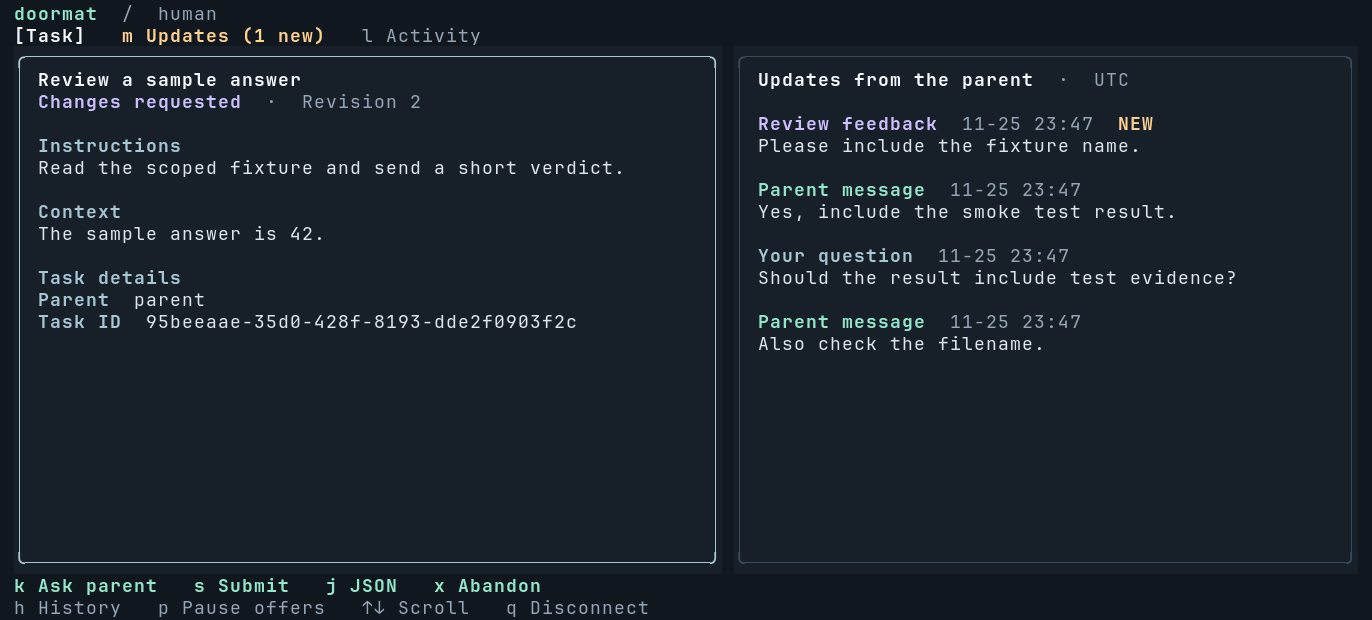
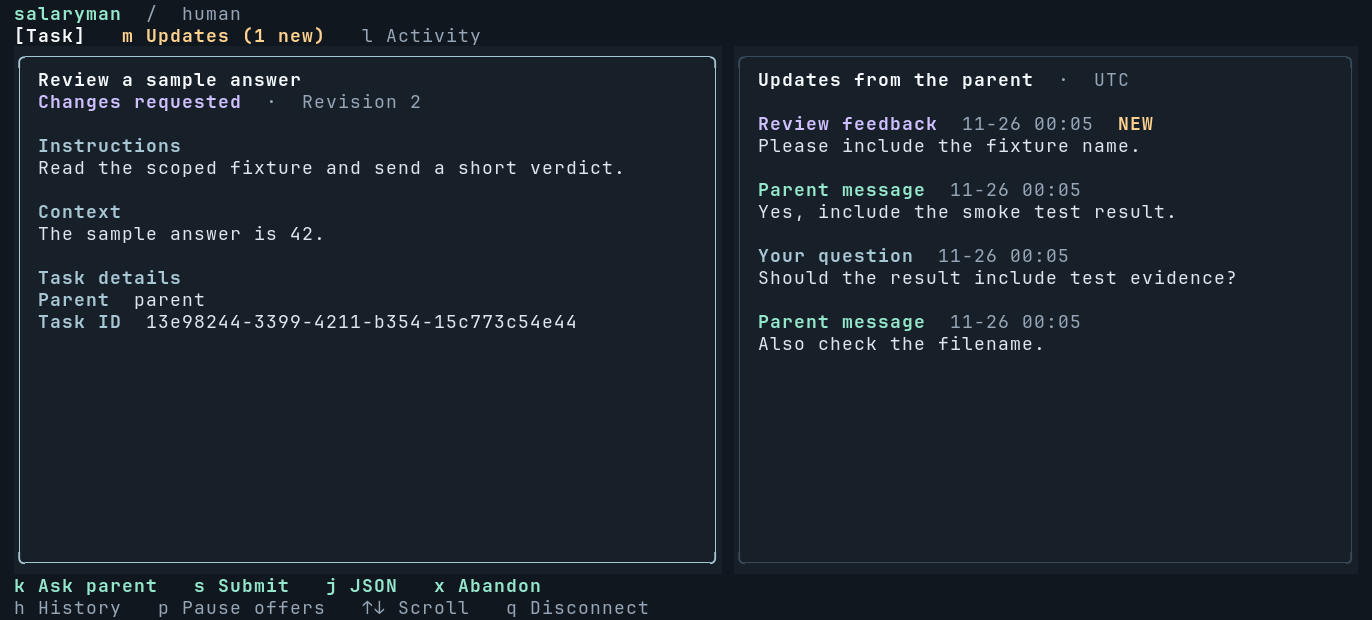
Rename doormat to salaryman

diff --git a/src/cli.ts b/src/cli.ts
@@ -6,23 +6,23 @@ import { paths, parentToken, workerIdentity } from "./local";
 import { DomainError, id, taskId } from "./model";
 import { parentRoutes, type ParentMethod, type Params } from "./rpc";
 
-const help = `doormat — local human delegation runtime
+const help = `salaryman — local human delegation runtime
 
 Usage
-  doormat daemon
-  doormat mcp                          MCP stdio bridge
-  doormat attach [--worker ID] [--available]
-  doormat connect [--worker ID]        Connect without opting into offers
-  doormat online [--worker ID]         Opt in for one headless lease
-  doormat status | heartbeat | pause | resume | disconnect
-  doormat accept [TASK] | reject REASON [TASK]
-  doormat ask TEXT [TASK] | abandon REASON [TASK]
-  doormat workspace [TASK] [--tmux]     Print path or retry setup
-  doormat submit FILE|- [TASK]         Submit JSON with revision and submissionId
-  doormat events [TASK] [--after CURSOR]
-  doormat history
-  doormat parent TOOL [FILE|-]         Call a parent tool with JSON
-  doormat route FILE|-                  Evaluate opt-in routing policy
+  salaryman daemon
+  salaryman mcp                          MCP stdio bridge
+  salaryman attach [--worker ID] [--available]
+  salaryman connect [--worker ID]        Connect without opting into offers
+  salaryman online [--worker ID]         Opt in for one headless lease
+  salaryman status | heartbeat | pause | resume | disconnect
+  salaryman accept [TASK] | reject REASON [TASK]
+  salaryman ask TEXT [TASK] | abandon REASON [TASK]
+  salaryman workspace [TASK] [--tmux]     Print path or retry setup
+  salaryman submit FILE|- [TASK]         Submit JSON with revision and submissionId
+  salaryman events [TASK] [--after CURSOR]
+  salaryman history
+  salaryman parent TOOL [FILE|-]         Call a parent tool with JSON
+  salaryman route FILE|-                  Evaluate opt-in routing policy
 
 Worker operations accept --worker ID (default: human).
 Headless sessions must heartbeat at least once per minute.
@@ -63,9 +63,9 @@ async function main() {
     status: [0, 0], heartbeat: [0, 0], pause: [0, 0], resume: [0, 0], disconnect: [0, 0],
     accept: [0, 1], reject: [1, 2], ask: [1, 2], abandon: [1, 2], workspace: [0, 1], submit: [1, 2],
     events: [0, 1], history: [0, 0], parent: [1, 2], route: [1, 1] };
-  if (!Object.hasOwn(count, command)) throw new Error("Unknown command. Run doormat --help");
+  if (!Object.hasOwn(count, command)) throw new Error("Unknown command. Run salaryman --help");
   const [min, max] = count[command]!;
-  if (cli.positionals.length < min || cli.positionals.length > max) throw new Error("Unexpected or missing arguments. Run doormat --help");
+  if (cli.positionals.length < min || cli.positionals.length > max) throw new Error("Unexpected or missing arguments. Run salaryman --help");
   const flags: Record<string, string[]> = { daemon: [], mcp: [], parent: [], route: [], attach: ["worker", "available"],
     workspace: ["worker", "tmux"], events: ["worker", "after"] };
   if (Object.keys(cli.values).some((value) => !(flags[command] ?? ["worker"]).includes(value))) throw new Error("Flag is unsupported for this command");

diff --git a/test/integration.test.ts b/test/integration.test.ts
@@ -32,8 +32,8 @@ beforeEach(() => {
   root = mkdtempSync(join(tmpdir(), "ha-ipc-"));
   repo = join(root, "git repo");
   env = { PATH: process.env.PATH!, HOME: root, GIT_CONFIG_NOSYSTEM: "1", GIT_CONFIG_GLOBAL: "/dev/null",
-    XDG_STATE_HOME: join(root, "state"), XDG_RUNTIME_DIR: join(root, "run"), DOORMAT_PARENT_TOKEN: owner,
-    DOORMAT_REPOSITORIES: JSON.stringify({ demo: repo }) };
+    XDG_STATE_HOME: join(root, "state"), XDG_RUNTIME_DIR: join(root, "run"), SALARYMAN_PARENT_TOKEN: owner,
+    SALARYMAN_REPOSITORIES: JSON.stringify({ demo: repo }) };
   mkdirSync(repo);
   git("init", "-q");
   writeFileSync(join(repo, "example"), "base\n");
@@ -128,10 +128,10 @@ test("MCP SDK stdio lists tools, delegates, exchanges messages and reviews a sub
   await start();
   const tokenFile = join(root, "parent.token");
   writeFileSync(tokenFile, owner + "\n", { mode: 0o600 });
-  const { DOORMAT_PARENT_TOKEN: _token, ...stdioEnv } = env;
+  const { SALARYMAN_PARENT_TOKEN: _token, ...stdioEnv } = env;
   const transport = new StdioClientTransport({ command: process.execPath, args: ["--no-env-file", entry, "mcp"],
-    env: { ...stdioEnv, DOORMAT_PARENT_TOKEN_FILE: tokenFile }, stderr: "pipe" });
-  const client = new Client({ name: "doormat-test", version: "0.1.0" });
+    env: { ...stdioEnv, SALARYMAN_PARENT_TOKEN_FILE: tokenFile }, stderr: "pipe" });
+  const client = new Client({ name: "salaryman-test", version: "0.1.0" });
   try {
     await client.connect(transport);
     expect((await client.listTools()).tools.map((tool) => tool.name)).toContain("complete_human_task");
@@ -250,11 +250,11 @@ test("workspace setup rejects repository-defined external filters", async () => 
   expect((await ipc.parent(owner, "get_human_status", { taskId })).state).toBe("ACCEPTED");
 });
 
-test("legacy environment variables still connect to the existing runtime", async () => {
-  env.HUMAN_AGENT_PARENT_TOKEN = owner;
-  env.HUMAN_AGENT_REPOSITORIES = env.DOORMAT_REPOSITORIES!;
-  delete env.DOORMAT_PARENT_TOKEN;
-  delete env.DOORMAT_REPOSITORIES;
+test.each(["DOORMAT", "HUMAN_AGENT"])("%s environment variables still connect to the existing runtime", async (prefix) => {
+  env[prefix + "_PARENT_TOKEN"] = owner;
+  env[prefix + "_REPOSITORIES"] = env.SALARYMAN_REPOSITORIES!;
+  delete env.SALARYMAN_PARENT_TOKEN;
+  delete env.SALARYMAN_REPOSITORIES;
   await start();
   const payload = JSON.stringify({ ...taskSpec, workspace: { repository: "demo", ref: base } });
   const child = Bun.spawn([process.execPath, entry, "parent", "delegate_to_human", "-"], {

diff --git a/src/local.ts b/src/local.ts
@@ -34,9 +34,11 @@ export function ownSocket(path: string, checkMode = true) {
 }
 
 export function parentToken() {
-  const renamedConfig = process.env.DOORMAT_PARENT_TOKEN || process.env.DOORMAT_PARENT_TOKEN_FILE;
-  const file = renamedConfig ? process.env.DOORMAT_PARENT_TOKEN_FILE : process.env.HUMAN_AGENT_PARENT_TOKEN_FILE;
-  let value = renamedConfig ? process.env.DOORMAT_PARENT_TOKEN : process.env.HUMAN_AGENT_PARENT_TOKEN;
+  const prefix = ["SALARYMAN", "DOORMAT", "HUMAN_AGENT"].find(
+    (name) => process.env[name + "_PARENT_TOKEN"] || process.env[name + "_PARENT_TOKEN_FILE"],
+  ) ?? "SALARYMAN";
+  const file = process.env[prefix + "_PARENT_TOKEN_FILE"];
+  let value = process.env[prefix + "_PARENT_TOKEN"];
   if (!value && file) {
     if (!isAbsolute(file)) throw new DomainError("CONFIG", "Parent token file path must be absolute");
     const info = lstatSync(file);
@@ -46,7 +48,7 @@ export function parentToken() {
     value = readFileSync(file, "utf8").trim();
   }
   const parsed = token.safeParse(value);
-  if (!parsed.success) throw new DomainError("CONFIG", "Configure a stable random DOORMAT_PARENT_TOKEN or DOORMAT_PARENT_TOKEN_FILE");
+  if (!parsed.success) throw new DomainError("CONFIG", "Configure a stable random SALARYMAN_PARENT_TOKEN or SALARYMAN_PARENT_TOKEN_FILE");
   return parsed.data;
 }
 

diff --git a/src/git.ts b/src/git.ts
@@ -8,7 +8,8 @@ const repositoryMap = z.record(id, z.string().refine(isAbsolute));
 const hash = /^[0-9a-f]{40}$|^[0-9a-f]{64}$/;
 
 export function configuredRepositories() {
-  return repositoryMap.parse(JSON.parse(process.env.DOORMAT_REPOSITORIES ?? process.env.HUMAN_AGENT_REPOSITORIES ?? "{}"));
+  const value = process.env.SALARYMAN_REPOSITORIES ?? process.env.DOORMAT_REPOSITORIES ?? process.env.HUMAN_AGENT_REPOSITORIES;
+  return repositoryMap.parse(JSON.parse(value ?? "{}"));
 }
 
 function gitEnvironment() {
@@ -102,7 +103,7 @@ export class GitWorkspaces implements WorkspacePort {
 }
 
 export async function tmuxWorkspace(path: string, id: string) {
-  const name = "doormat-" + taskId.parse(id);
+  const name = "salaryman-" + taskId.parse(id);
   if (!isAbsolute(path) || await realpath(path) !== path) throw new Error("The workspace path has moved");
   const session = Bun.spawn(["tmux", "has-session", "-t", "=" + name], { stdout: "ignore", stderr: "ignore" });
   if (await session.exited !== 0) {

diff --git a/src/daemon.ts b/src/daemon.ts
@@ -11,7 +11,7 @@ function lock(path: string) {
   try { db.exec("PRAGMA busy_timeout=0; BEGIN EXCLUSIVE;"); }
   catch {
     db.close();
-    throw new Error("The doormat runtime or state directory is already in use");
+    throw new Error("The salaryman runtime or state directory is already in use");
   }
   return db;
 }
@@ -32,7 +32,7 @@ export async function daemon() {
         const service = new AgentService(repo, workspaces);
         service.start();
         const listener = await listen(config.socket, service);
-        console.error(`doormat listening at ${config.socket}`);
+        console.error(`salaryman listening at ${config.socket}`);
         const timer = setInterval(() => {
           try { service.tick(); }
           catch (error) { console.error("Queue tick failed:", error); }

diff --git a/src/tui.ts b/src/tui.ts
@@ -131,7 +131,7 @@ export async function attach(client: LocalClient, human: Human, available: boole
       const presence = networkError ? "OFFLINE" : snapshot?.availability ?? "CONNECTING";
       showEventsFor(view !== "history" ? task?.id ?? "" : "");
       markUpdatesOpened();
-      set(header, [["doormat", "accent"], ["  /  ", "muted"],
+      set(header, [["salaryman", "accent"], ["  /  ", "muted"],
         ...(!snapshot?.task || networkError ? [[presence + "   ", networkError ? "error" : "label"]] satisfies Segment[] : []),
         [human.worker, "muted"]]);
       const tab = (name: string, active: boolean, tone: Tone = "muted"): Segment =>

diff --git a/src/mcp.ts b/src/mcp.ts
@@ -26,7 +26,7 @@ const callResult = (value: object, isError = false): CallToolResult => ({
 export async function mcp() {
   const client = new LocalClient(paths().socket);
   const auth = parentToken();
-  const server = new McpServer({ name: "doormat", version: "0.1.0" });
+  const server = new McpServer({ name: "salaryman", version: "0.1.0" });
   function register<M extends ParentMethod>(name: M) {
     server.registerTool(name, { description: descriptions[name], inputSchema: parentRoutes[name].schema }, async (args: unknown) => {
       try { return callResult(await client.parent(auth, name, args as Params<M>)); }

diff --git a/src/ipc.ts b/src/ipc.ts
@@ -60,7 +60,7 @@ export async function listen(socketPath: string, service: AgentService) {
         if (error.code === "ECONNREFUSED") resolve();
         else reject(error);
       });
-      socket.once("connect", () => { socket.destroy(); reject(new Error("A doormat daemon is already listening")); });
+      socket.once("connect", () => { socket.destroy(); reject(new Error("A salaryman daemon is already listening")); });
       socket.setTimeout(2_000, () => { socket.destroy(); reject(new Error("Existing socket did not respond")); });
     });
     unlinkSync(socketPath);

diff --git a/README.md b/README.md
@@ -1,10 +1,10 @@
-# doormat
+# salaryman
 
 human as an agent
 
-A local runtime for handing scoped work from an AI parent to an opted-in human. SSH into the Linux host and run `doormat attach`. Accept an assignment, work from another shell or tmux session, ask the parent questions, and submit for review.
+A local runtime for handing scoped work from an AI parent to an opted-in human. SSH into the Linux host and run `salaryman attach`. Accept an assignment, work from another shell or tmux session, ask the parent questions, and submit for review.
 
-![doormat running in an actual xterm/tmux terminal](assets/terminal.png)
+![salaryman running in an actual xterm/tmux terminal](assets/terminal.png)
 
 ## Install and run on Linux
 
@@ -20,28 +20,28 @@ bun run build
 ./scripts/tui-smoke.sh
 ```
 
-All commands can run from the checkout. For a user-local `doormat` command, create a symlink and put `$HOME/.local/bin` on `PATH`.
+All commands can run from the checkout. For a user-local `salaryman` command, create a symlink and put `$HOME/.local/bin` on `PATH`.
 
 ```sh
 mkdir -p "$HOME/.local/bin"
-ln -s "$PWD/src/cli.ts" "$HOME/.local/bin/doormat"
+ln -s "$PWD/src/cli.ts" "$HOME/.local/bin/salaryman"
 ```
 
-Run `doormat daemon` in one shell and `doormat attach --worker alice` in another. Use `bun --no-env-file src/cli.ts` in place of `doormat` if you skipped the symlink. The build emits `dist/cli.js` for Bun and uses the installed dependencies.
+Run `salaryman daemon` in one shell and `salaryman attach --worker alice` in another. Use `bun --no-env-file src/cli.ts` in place of `salaryman` if you skipped the symlink. The build emits `dist/cli.js` for Bun and uses the installed dependencies.
 
 On Linux without a user runtime directory, create an owned private directory and export its absolute path as `XDG_RUNTIME_DIR` in every participating process. Use the same XDG settings for the daemon, SSH shell, and MCP host. The default runtime base is `/run/user/$(id -u)` and the default state base is `$HOME/.local/state`.
 
-The runtime retains the `human-agent` XDG subdirectories and accepts legacy `HUMAN_AGENT_*` environment variables so existing queues, worktrees, and credentials remain accessible after the rename.
+The runtime retains the `human-agent` XDG subdirectories and accepts legacy `DOORMAT_*` and `HUMAN_AGENT_*` environment variables so existing queues, worktrees, and credentials remain accessible after the rename.
 
 ## Try a task
 
 Press `p` in the TUI to opt in, or launch with `--available`. In a parent shell on the same host, create a stable token and submit an assignment.
 
 ```sh
-mkdir -p "$HOME/.config/doormat"
-export DOORMAT_PARENT_TOKEN_FILE="$HOME/.config/doormat/parent.token"
-(umask 077; set -C; bun -e 'import {randomBytes} from "node:crypto"; console.log(randomBytes(32).toString("base64url"))' > "$DOORMAT_PARENT_TOKEN_FILE")
-doormat parent delegate_to_human - <<'JSON'
+mkdir -p "$HOME/.config/salaryman"
+export SALARYMAN_PARENT_TOKEN_FILE="$HOME/.config/salaryman/parent.token"
+(umask 077; set -C; bun -e 'import {randomBytes} from "node:crypto"; console.log(randomBytes(32).toString("base64url"))' > "$SALARYMAN_PARENT_TOKEN_FILE")
+salaryman parent delegate_to_human - <<'JSON'
 {"requestId":"demo-1","parentId":"demo-parent","title":"Verify the sample","instructions":"Read the scoped context and report the sample value.","context":"The sample value is 42.","allowedTools":["shell"]}
 JSON
 ```
@@ -50,51 +50,51 @@ Press `a` to accept, `k` to ask a question, and `F2` to send. The **Task** pane 
 
 Use `s` to submit a summary, or `j` to submit JSON fields for evidence, a Git ref, a diff, or structured output. Both submission forms use `F2`. Press `h` for your assignment history and `q` to disconnect. At 100 columns and 24 rows the TUI shows the brief and updates side by side. Narrower terminals use one pane, with the same keys to switch views.
 
-The headless CLI supports the same workflow. `connect` opens a headless session without opting into new offers. `online` opts in for a 60-second lease. `heartbeat` or `status` renews it. Pass `--worker alice` to each worker command. Run `doormat --help` for the command list. Example submission file contents follow.
+The headless CLI supports the same workflow. `connect` opens a headless session without opting into new offers. `online` opts in for a 60-second lease. `heartbeat` or `status` renews it. Pass `--worker alice` to each worker command. Run `salaryman --help` for the command list. Example submission file contents follow.
 
 ```json
 {"submissionId":"demo-first","revision":1,"summary":"Sample verified","evidence":["The fixture reports 42."],"output":{"value":42}}
 ```
 
 ```sh
-doormat submit result.json --worker alice
+salaryman submit result.json --worker alice
 ```
 
-The parent can call any MCP tool through `doormat parent TOOL [FILE|-]`. Read a result by sending `{"taskId":"…"}` to `get_human_result`. To approve it, pass the task ID and returned submission ID to `complete_human_task`. The automated demo creates an isolated fixture repo, exchanges a question and answer, and completes after one round of rework. The PTY smoke script drives the real TUI in an isolated tmux server.
+The parent can call any MCP tool through `salaryman parent TOOL [FILE|-]`. Read a result by sending `{"taskId":"…"}` to `get_human_result`. To approve it, pass the task ID and returned submission ID to `complete_human_task`. The automated demo creates an isolated fixture repo, exchanges a question and answer, and completes after one round of rework. The PTY smoke script drives the real TUI in an isolated tmux server.
 
 ## Git workspaces
 
-Set `DOORMAT_REPOSITORIES` in the daemon environment to a JSON map of approved aliases to absolute paths, such as `{"demo":"/home/alice/src/demo"}`. Include `"workspace":{"repository":"demo","ref":"<commit-sha>"}` in the task. A plain local branch or tag also works. Use a full hash when the base must remain stable from creation through acceptance.
+Set `SALARYMAN_REPOSITORIES` in the daemon environment to a JSON map of approved aliases to absolute paths, such as `{"demo":"/home/alice/src/demo"}`. Include `"workspace":{"repository":"demo","ref":"<commit-sha>"}` in the task. A plain local branch or tag also works. Use a full hash when the base must remain stable from creation through acceptance.
 
-Explicit acceptance reserves the assignment and pins the Git base before checkout. The daemon creates a detached worktree under `$XDG_STATE_HOME/human-agent/worktrees/<task-id>` and displays its exact path. Open the path in another SSH shell or use `w` in the TUI to create a detached tmux session. The headless equivalent is `doormat workspace --worker alice --tmux`. An interrupted setup stays `ACCEPTED`. Press `w` to retry. If the reserved path is dirty, moved, a symlink, or otherwise ambiguous, inspect it manually. The daemon preserves worktrees and their registration, including after cancellation.
+Explicit acceptance reserves the assignment and pins the Git base before checkout. The daemon creates a detached worktree under `$XDG_STATE_HOME/human-agent/worktrees/<task-id>` and displays its exact path. Open the path in another SSH shell or use `w` in the TUI to create a detached tmux session. The headless equivalent is `salaryman workspace --worker alice --tmux`. An interrupted setup stays `ACCEPTED`. Press `w` to retry. If the reserved path is dirty, moved, a symlink, or otherwise ambiguous, inspect it manually. The daemon preserves worktrees and their registration, including after cancellation.
 
 For a Git submission, commit in the task checkout and send the full commit hash in `gitRef`, or send a small diff. The daemon stores submitted evidence as provided. Reviewers resolve and inspect Git refs themselves. Worktrees share repository metadata and refs with the source checkout. Use repositories and Git configurations controlled by the operator. Managed setup disables hooks, fsmonitor, global and system Git config, protocol access, and external filters. Submodule initialization and partial clone fetching are outside the runtime workflow.
 
 ## NixOS user service
 
-Copy [examples/doormat.service](examples/doormat.service) into `~/.config/systemd/user/doormat.service`, replacing the Bun binary and checkout paths. If using worktrees, copy and edit [examples/daemon.env](examples/daemon.env) under `~/.config/doormat/`. Ensure `git` and `flock` are on the unit's `PATH`.
+Copy [examples/salaryman.service](examples/salaryman.service) into `~/.config/systemd/user/salaryman.service`, replacing the Bun binary and checkout paths. If using worktrees, copy and edit [examples/daemon.env](examples/daemon.env) under `~/.config/salaryman/`. Ensure `git` and `flock` are on the unit's `PATH`.
 
 ```sh
 systemctl --user daemon-reload
-systemctl --user enable --now doormat.service
-journalctl --user -u doormat.service
+systemctl --user enable --now salaryman.service
+journalctl --user -u salaryman.service
 ```
 
 The unit uses the user manager's runtime directory. Survival across logout depends on the existing user-manager lifecycle on the host. The foreground daemon is also supported. The service examples have no dependency on T3 or Paseo configuration.
 
 ## MCP hosts
 
-The bridge command is `/absolute/path/to/bun --no-env-file /absolute/path/to/doormat/src/cli.ts mcp`. It uses MCP stdio over the host's process pipes and connects to the existing Unix socket. The host must launch it on the daemon machine under the same Unix account. Use an absolute parent token file path and forward `XDG_RUNTIME_DIR` for custom locations. The `DOORMAT_PARENT_TOKEN` environment variable is also supported and takes precedence. Keep each parent's stable token private because it owns that parent's tasks.
+The bridge command is `/absolute/path/to/bun --no-env-file /absolute/path/to/salaryman/src/cli.ts mcp`. It uses MCP stdio over the host's process pipes and connects to the existing Unix socket. The host must launch it on the daemon machine under the same Unix account. Use an absolute parent token file path and forward `XDG_RUNTIME_DIR` for custom locations. The `SALARYMAN_PARENT_TOKEN` environment variable is also supported and takes precedence. Keep each parent's stable token private because it owns that parent's tasks.
 
 The bridge was exercised with the official MCP TypeScript SDK client. The following Codex and Claude Code registration syntax was checked against local CLI help and upstream docs. Registration and full host sessions were left to the operator.
 
 **Codex** `config.toml` or project `.codex/config.toml` entry. [Codex MCP docs](https://developers.openai.com/codex/mcp)
 
 ```toml
-[mcp_servers.doormat]
+[mcp_servers.salaryman]
 command = "/home/alice/.nix-profile/bin/bun"
-args = ["--no-env-file", "/home/alice/src/doormat/src/cli.ts", "mcp"]
-env = { DOORMAT_PARENT_TOKEN_FILE = "/home/alice/.config/doormat/parent.token" }
+args = ["--no-env-file", "/home/alice/src/salaryman/src/cli.ts", "mcp"]
+env = { SALARYMAN_PARENT_TOKEN_FILE = "/home/alice/.config/salaryman/parent.token" }
 env_vars = ["XDG_RUNTIME_DIR"]
 ```
 
@@ -103,17 +103,17 @@ env_vars = ["XDG_RUNTIME_DIR"]
 ```json
 {
   "mcpServers": {
-    "doormat": {
+    "salaryman": {
       "type": "stdio",
       "command": "/home/alice/.nix-profile/bin/bun",
-      "args": ["--no-env-file", "/home/alice/src/doormat/src/cli.ts", "mcp"],
-      "env": {"DOORMAT_PARENT_TOKEN_FILE": "/home/alice/.config/doormat/parent.token"}
+      "args": ["--no-env-file", "/home/alice/src/salaryman/src/cli.ts", "mcp"],
+      "env": {"SALARYMAN_PARENT_TOKEN_FILE": "/home/alice/.config/salaryman/parent.token"}
     }
   }
 }
 ```
 
-**T3 Code.** Use the Codex provider's actual configuration home or the Claude provider's project configuration as above. Check that the resulting thread lists `doormat` tools. Provider launch overrides and instance-specific config homes vary. The exact configuration path and live injection on this installation are unverified. T3's own orchestration MCP endpoint serves a different purpose. [T3 provider docs](https://github.com/pingdotgg/t3code/blob/main/docs/internals/providers.md) · [Codex override issue](https://github.com/pingdotgg/t3code/issues/15828)
+**T3 Code.** Use the Codex provider's actual configuration home or the Claude provider's project configuration as above. Check that the resulting thread lists `salaryman` tools. Provider launch overrides and instance-specific config homes vary. The exact configuration path and live injection on this installation are unverified. T3's own orchestration MCP endpoint serves a different purpose. [T3 provider docs](https://github.com/pingdotgg/t3code/blob/main/docs/internals/providers.md) · [Codex override issue](https://github.com/pingdotgg/t3code/issues/15828)
 
 **Paseo.** The JSON above is also the documented shape of a Paseo agent's `mcpServers` map inside a session configuration. An existing trusted plugin can supply the entry from `agent.open.before`, or persist it via `agent.create.before`. Hook availability and provider support in the installed build are unverified. The local `paseo agent run --help` has no MCP registration flag. [Paseo stdio type](https://github.com/getpaseo/paseo/blob/main/packages/protocol/src/agent-types.ts) · [Paseo hook docs](https://upd.dev/getpaseo/paseo/src/branch/main/public-docs/plugins/hooks.md)
 
@@ -122,12 +122,12 @@ env_vars = ["XDG_RUNTIME_DIR"]
 Use [the human-delegate skill](skills/human-delegate/SKILL.md) as the parent prompt or install it into your chosen host's skill directory. Explicit delegation is the default. Automatic and random routing require an opt-in caller policy, eligible work, and an available worker. The policy helper can be called as follows.
 
 ```sh
-doormat route - <<'JSON'
+salaryman route - <<'JSON'
 {"mode":"random","eligible":true,"available":true,"attemptId":"review-42","rate":0.25}
 JSON
 ```
 
-The parent owns the routing decision and substitutes doormat for one planned subtask. Native AI subagents continue to work independently. The stable attempt ID makes the random choice reproducible. `list_available_humans` reports advisory availability. The daemon assigns offers transactionally.
+The parent owns the routing decision and substitutes salaryman for one planned subtask. Native AI subagents continue to work independently. The stable attempt ID makes the random choice reproducible. `list_available_humans` reports advisory availability. The daemon assigns offers transactionally.
 
 | Tool | Main arguments and behavior |
 | --- | --- |

diff --git a/skills/human-delegate/SKILL.md b/skills/human-delegate/SKILL.md
@@ -1,13 +1,13 @@
 ---
 name: human-delegate
-description: Delegate scoped tasks to an opted-in doormat worker, answer their questions, and review submissions. Use when the user explicitly asks for a human handoff or when an authorized routing policy selects a human.
+description: Delegate scoped tasks to an opted-in salaryman worker, answer their questions, and review submissions. Use when the user explicitly asks for a human handoff or when an authorized routing policy selects a human.
 ---
 
 # Human delegation
 
-Use the doormat MCP tools in the parent session. Carry exactly one execution path for each attempt.
+Use the salaryman MCP tools in the parent session. Carry exactly one execution path for each attempt.
 
-1. Default to manual routing. For explicitly authorized automatic or random routing, check `list_available_humans` and use `doormat route` with a stable attempt ID, eligibility, availability, and the configured rate. An empty availability result can route an unstarted automatic attempt to AI. An explicitly requested handoff may queue offline.
+1. Default to manual routing. For explicitly authorized automatic or random routing, check `list_available_humans` and use `salaryman route` with a stable attempt ID, eligibility, availability, and the configured rate. An empty availability result can route an unstarted automatic attempt to AI. An explicitly requested handoff may queue offline.
 2. Call `delegate_to_human` with a stable `requestId`, `parentId`, title, instructions, and only the context the human needs. Include an approved repository alias and ref when needed. Prefer a full commit hash. Specify acceptance criteria, expected output, and the offer deadline if relevant.
 3. Save the returned `taskId` and event cursor in your working context. On an uncertain reply, retry the same request ID and identical payload with the same parent capability. Resolve the task state before starting work on that attempt.
 4. Continue independent work while the task is pending. At a natural checkpoint or on an explicitly configured scheduler, call `get_task_events` with the last cursor, handle the page, and save `nextCursor`. Drain `hasMore` pages. If you must wait in a script, start with a 5-second delay and back off to 30 seconds between empty polls. Answer questions with `message_human`. If the host ends the turn, tell the user how to resume with the task ID. This runtime uses ordinary tools and supplies no native auto-resume.
